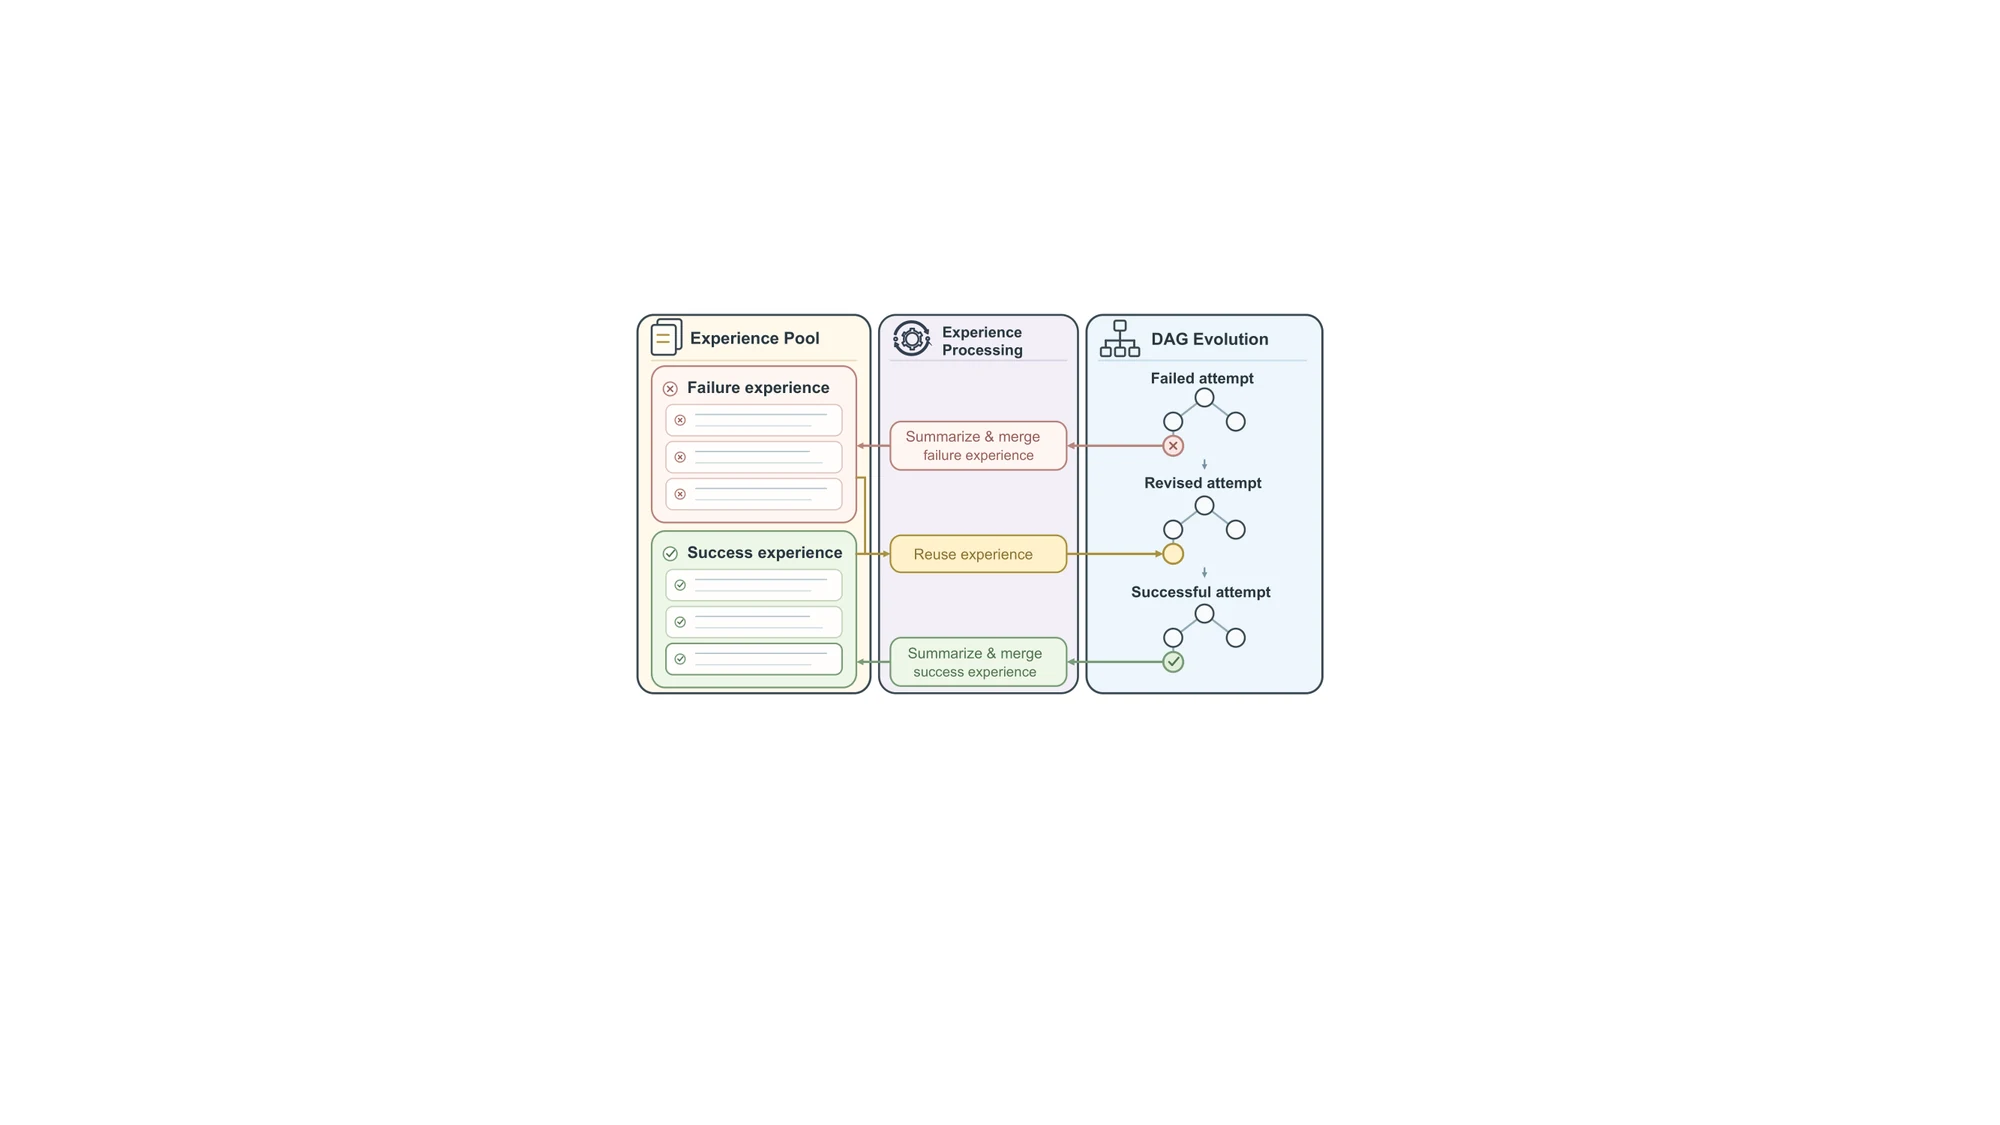
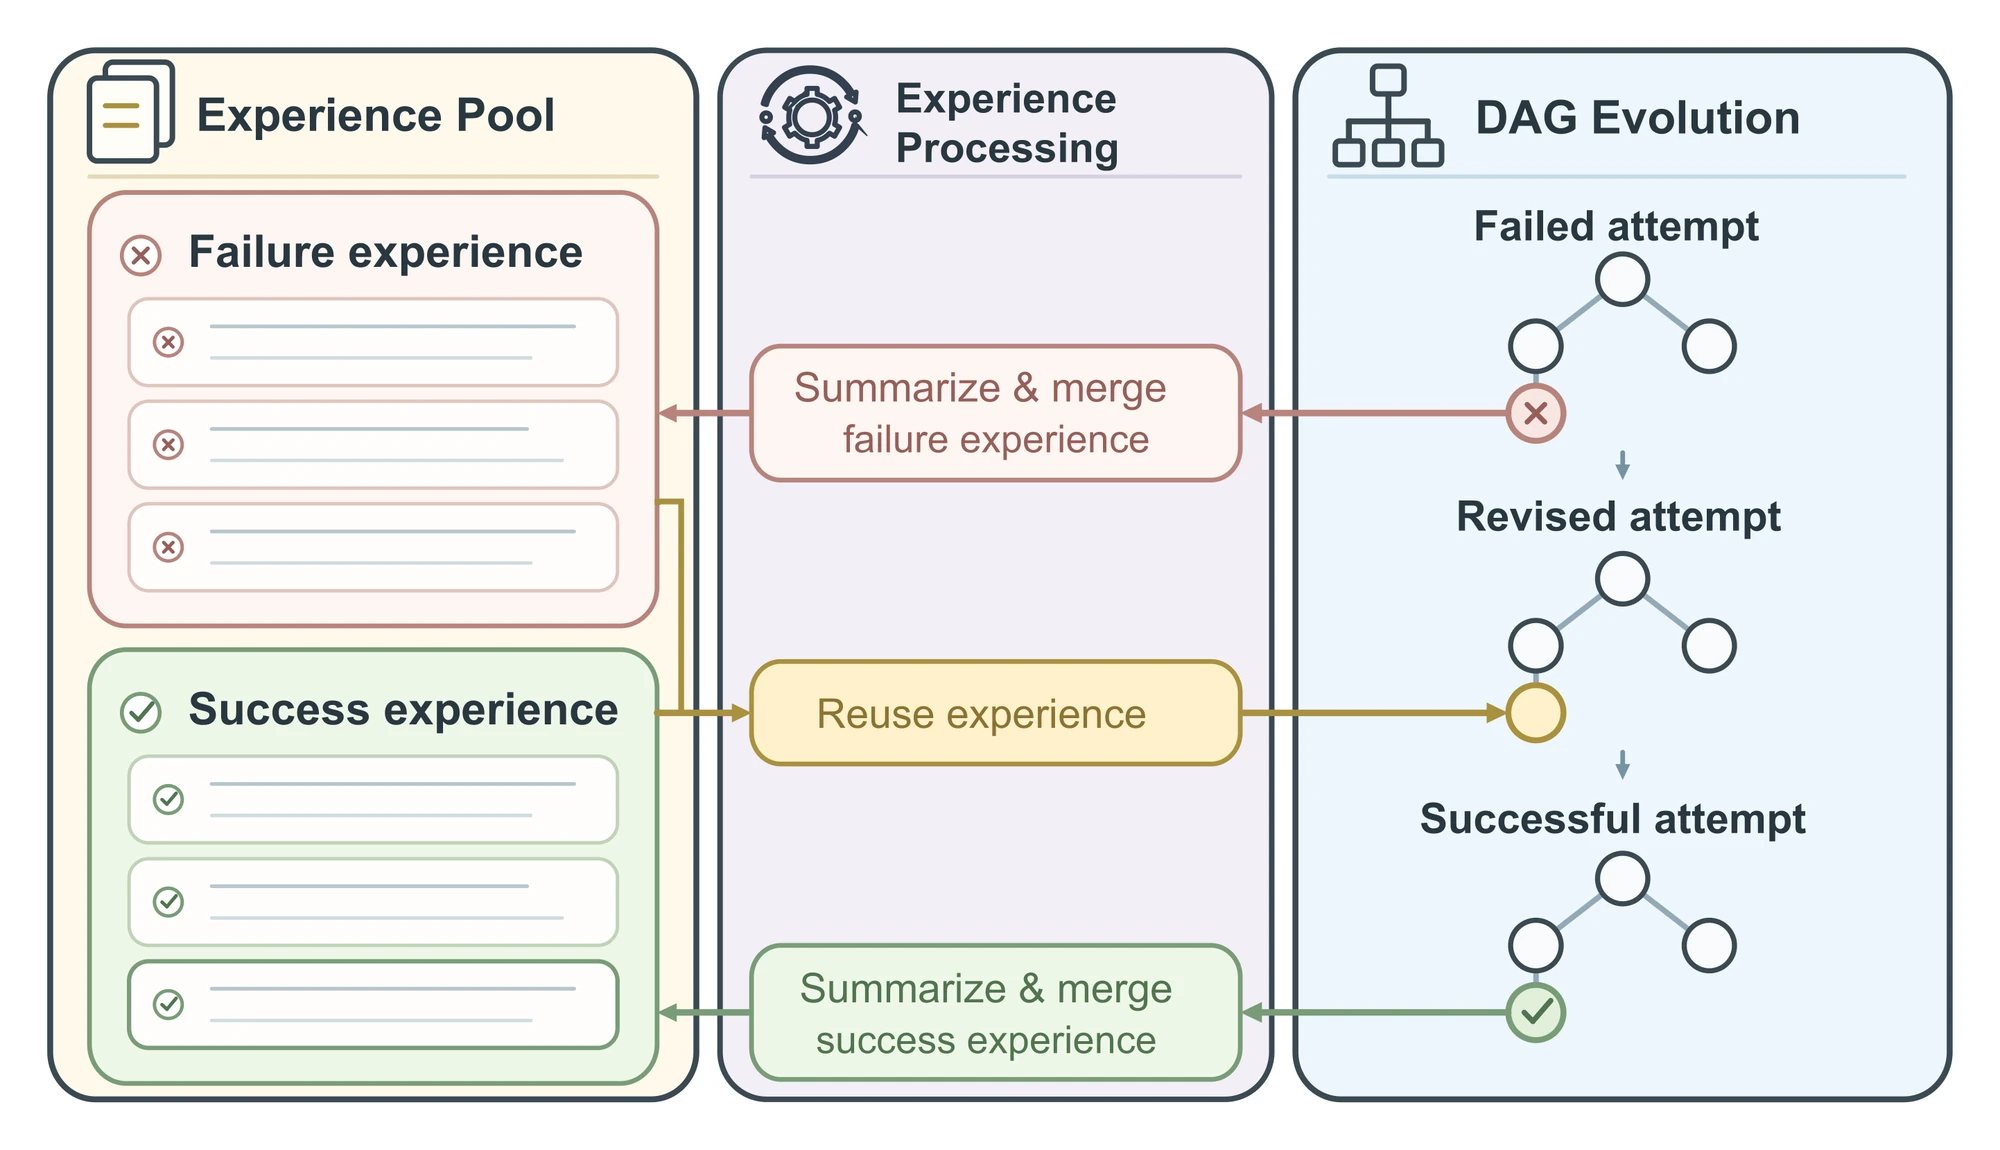
Crop whitespace from semantic-review and experience-pool figures
The source PDFs (DAG.pdf, 301.pdf) have large blank pages around small
drawings, so the figures used ~1/3 of their frames. Re-rendered at
600 dpi and cropped to the drawing. bump_version.py now also stamps
image/video references so replaced images are not served from cache.

Changed region(s): [[0.0, 0.0311, 0.992, 0.9644], [0.837, 0.5289, 0.868, 0.5911], [0.837, 0.28, 0.868, 0.3422]]

diff --git a/harness.html b/harness.html
@@ -5,11 +5,11 @@
   <meta name="viewport" content="width=device-width, initial-scale=1, viewport-fit=cover">
   <title>Harness — Turing Agent</title>
   <meta name="description" content="How Turing Agent works: two-scale theorem/proof formalization agents, proof DAG, selective semantic review, experience pool, and benchmark results.">
-  <link rel="icon" href="assets/img/logo.png">
+  <link rel="icon" href="assets/img/logo.png?v=202611110642">
   <link rel="preconnect" href="https://fonts.googleapis.com">
   <link rel="preconnect" href="https://fonts.gstatic.com" crossorigin>
   <link href="https://fonts.googleapis.com/css2?family=Fira+Code:wght@400;500;600&family=Poppins:wght@400;500;600&family=Source+Serif+4:ital,opsz,wght@0,8..60,400;0,8..60,600;1,8..60,400&display=swap" rel="stylesheet">
-  <link rel="stylesheet" href="assets/css/site.css?v=202611110637">
+  <link rel="stylesheet" href="assets/css/site.css?v=202611110642">
 </head>
 <body>
   <header class="banner" id="banner"></header>
@@ -34,7 +34,7 @@
       <div class="wrap-xl" style="margin-top:1.5rem">
         <div class="box pad-lg">
           <figure class="figure">
-            <div class="mat"><img class="zoomable" loading="lazy" src="assets/img/challenges.webp" alt="Pipeline from natural-language claim to kernel check, annotated with faithfulness, validity and completeness." width="2506" height="1025"></div>
+            <div class="mat"><img class="zoomable" loading="lazy" src="assets/img/challenges.webp?v=202611110642" alt="Pipeline from natural-language claim to kernel check, annotated with faithfulness, validity and completeness." width="2506" height="1025"></div>
           </figure>
           <div class="grid-3" style="margin-top:20px">
             <div class="card tile"><span class="tag">Faithfulness</span><h3>Preserve the original claim</h3><p>The Lean statement must keep the domains, quantifiers, assumptions and conclusion of the natural-language claim. A statement can compile and still say something else.</p></div>
@@ -57,7 +57,7 @@
       <div class="wrap-xl" style="margin-top:1.5rem">
         <div class="box-linear pad-lg">
           <figure class="figure">
-            <div class="mat"><img class="zoomable" loading="lazy" src="assets/img/workflow.webp" alt="Turing Agent workflow: TF subagent, recursive DAG construction, PF subagents, experience pool and final verification." width="2470" height="1406"></div>
+            <div class="mat"><img class="zoomable" loading="lazy" src="assets/img/workflow.webp?v=202611110642" alt="Turing Agent workflow: TF subagent, recursive DAG construction, PF subagents, experience pool and final verification." width="2470" height="1406"></div>
             <figcaption><b>Workflow.</b> TF agents supply checked Lean statements and definitions; PF agents construct proofs and request semantic review when needed. The runtime coordinates recursive DAG construction, parallel proof formalization and selective review; experience from successful and failed attempts is extracted and reused, and checked branch proofs are assembled for final verification.</figcaption>
           </figure>
         </div>
@@ -77,11 +77,11 @@
       <div class="wrap-xl" style="margin-top:2rem">
         <div class="grid-2">
           <figure class="figure box pad">
-            <div class="mat"><img class="zoomable" loading="lazy" src="assets/img/semantic-review.webp" alt="Selective semantic review in the proof DAG." width="2667" height="1500"></div>
+            <div class="mat"><img class="zoomable" loading="lazy" src="assets/img/semantic-review.webp?v=202611110642" alt="Selective semantic review in the proof DAG." width="2000" height="1366"></div>
             <figcaption><b>Selective semantic review.</b> PF agents call a TF agent when a concept is unclear or a new definition is introduced.</figcaption>
           </figure>
           <figure class="figure box pad">
-            <div class="mat"><img class="zoomable" loading="lazy" src="assets/img/experience.webp" alt="Experience extraction and reuse during DAG evolution." width="2667" height="1500"></div>
+            <div class="mat"><img class="zoomable" loading="lazy" src="assets/img/experience.webp?v=202611110642" alt="Experience extraction and reuse during DAG evolution." width="2000" height="1150"></div>
             <figcaption><b>Experience pool.</b> Retained records guide revisions; useful findings from later attempts update the pool.</figcaption>
           </figure>
         </div>
@@ -106,7 +106,7 @@
       <div class="wrap-xl" style="margin-top:1.6rem">
         <div class="box pad-lg">
           <figure class="figure">
-            <div class="mat"><img class="zoomable" loading="lazy" src="assets/img/results.webp" alt="Bar charts of pass@1 results for GLM-5.3 and DeepSeek-V4-Pro." width="2512" height="1267"></div>
+            <div class="mat"><img class="zoomable" loading="lazy" src="assets/img/results.webp?v=202611110642" alt="Bar charts of pass@1 results for GLM-5.3 and DeepSeek-V4-Pro." width="2512" height="1267"></div>
             <figcaption><b>Pass@1 results</b> on Formal TCS Bench (compilation and success) and RLMEval (PFR, TLB, total) for both models.</figcaption>
           </figure>
         </div>
@@ -135,8 +135,8 @@
 
   <footer class="footer" id="footer"></footer>
 
-  <script src="data/site.js?v=202611110637"></script>
-  <script src="data/results.js?v=202611110637"></script>
-  <script src="assets/js/site.js?v=202611110637"></script>
+  <script src="data/site.js?v=202611110642"></script>
+  <script src="data/results.js?v=202611110642"></script>
+  <script src="assets/js/site.js?v=202611110642"></script>
 </body>
 </html>

diff --git a/index.html b/index.html
@@ -5,11 +5,11 @@
   <meta name="viewport" content="width=device-width, initial-scale=1, viewport-fit=cover">
   <title>Turing Agent — Faithful Automated Formal Verification</title>
   <meta name="description" content="Turing Agent: a unified agent harness for faithful, research-level formal verification in Lean. Harness design, OpenAI research problems, demos and workshops.">
-  <link rel="icon" href="assets/img/logo.png">
+  <link rel="icon" href="assets/img/logo.png?v=202611110642">
   <link rel="preconnect" href="https://fonts.googleapis.com">
   <link rel="preconnect" href="https://fonts.gstatic.com" crossorigin>
   <link href="https://fonts.googleapis.com/css2?family=Fira+Code:wght@400;500;600&family=Poppins:wght@400;500;600&family=Source+Serif+4:ital,opsz,wght@0,8..60,400;0,8..60,600;1,8..60,400&display=swap" rel="stylesheet">
-  <link rel="stylesheet" href="assets/css/site.css?v=202611110637">
+  <link rel="stylesheet" href="assets/css/site.css?v=202611110642">
 </head>
 <body>
   <header class="banner" id="banner"></header>
@@ -17,7 +17,7 @@
   <main>
     <!-- ============ HERO ============ -->
     <section class="hero wrap-large">
-      <img class="hero-logo" src="assets/img/logo.png" alt="Turing Agent logo" width="64" height="71">
+      <img class="hero-logo" src="assets/img/logo.png?v=202611110642" alt="Turing Agent logo" width="64" height="71">
       <h1>Turing Agent<span>Faithful Automated Formal Verification in Theoretical Computer Science</span></h1>
       <div class="affil">Shanghai Artificial Intelligence Laboratory</div>
       <p class="lede">
@@ -54,7 +54,7 @@
                 <!-- To swap the video: new .mp4 in assets/video/, poster in assets/img/, edit src/poster/caption. -->
                 <figure class="figure">
                   <div class="mat video-mat">
-                    <video class="showcase" src="assets/video/186dag.mp4" poster="assets/img/186dag-poster.webp"
+                    <video class="showcase" src="assets/video/186dag.mp4?v=202611110642" poster="assets/img/186dag-poster.webp"
                            width="1920" height="1080" autoplay muted loop playsinline controls preload="auto"
                            aria-label="Animation: Turing Agent builds and verifies the proof DAG for the uniform influence bound for hypergraph properties."></video>
                   </div>
@@ -124,7 +124,7 @@
       </div>
       <div class="box pad-lg" style="margin-top:16px">
         <figure class="figure">
-          <div class="mat"><img class="zoomable" loading="lazy" src="assets/img/results.webp" alt="Bar charts of pass@1 on Formal TCS Bench (compilation and success) and RLMEval (PFR, TLB, total) for LLM only, Codex, Claude Code and Turing Agent, with GLM-5.3 and DeepSeek-V4-Pro." width="2000" height="1009"></div>
+          <div class="mat"><img class="zoomable" loading="lazy" src="assets/img/results.webp?v=202611110642" alt="Bar charts of pass@1 on Formal TCS Bench (compilation and success) and RLMEval (PFR, TLB, total) for LLM only, Codex, Claude Code and Turing Agent, with GLM-5.3 and DeepSeek-V4-Pro." width="2000" height="1009"></div>
           <figcaption><b>Pass@1 (%)</b> with GLM-5.3 (top) and DeepSeek-V4-Pro (bottom): the same model run as direct generation, inside Codex CLI, inside Claude Code, and inside Turing Agent. Formal TCS Bench success requires the statement to compile <em>and</em> pass independent semantic review. Click to enlarge.</figcaption>
         </figure>
       </div>
@@ -178,11 +178,11 @@
 
   <footer class="footer" id="footer"></footer>
 
-  <script src="data/site.js?v=202611110637"></script>
-  <script src="data/openai.js?v=202611110637"></script>
-  <script src="data/demos.js?v=202611110637"></script>
-  <script src="data/traces/index.js?v=202611110637"></script>
-  <script src="data/workshops.js?v=202611110637"></script>
-  <script src="assets/js/site.js?v=202611110637"></script>
+  <script src="data/site.js?v=202611110642"></script>
+  <script src="data/openai.js?v=202611110642"></script>
+  <script src="data/demos.js?v=202611110642"></script>
+  <script src="data/traces/index.js?v=202611110642"></script>
+  <script src="data/workshops.js?v=202611110642"></script>
+  <script src="assets/js/site.js?v=202611110642"></script>
 </body>
 </html>

diff --git a/openai.html b/openai.html
@@ -5,12 +5,12 @@
   <meta name="viewport" content="width=device-width, initial-scale=1, viewport-fit=cover">
   <title>OpenAI Problems — Turing Agent</title>
   <meta name="description" content="Research-level TCS problems from OpenAI's 722-manuscript collection, formally verified in Lean by Turing Agent.">
-  <link rel="icon" href="assets/img/logo.png">
+  <link rel="icon" href="assets/img/logo.png?v=202611110642">
   <link rel="preconnect" href="https://fonts.googleapis.com">
   <link rel="preconnect" href="https://fonts.gstatic.com" crossorigin>
   <link href="https://fonts.googleapis.com/css2?family=Fira+Code:wght@400;500;600&family=Poppins:wght@400;500;600&family=Source+Serif+4:ital,opsz,wght@0,8..60,400;0,8..60,600;1,8..60,400&display=swap" rel="stylesheet">
   <link rel="stylesheet" href="https://cdn.jsdelivr.net/npm/katex@0.16.11/dist/katex.min.css">
-  <link rel="stylesheet" href="assets/css/site.css?v=202611110637">
+  <link rel="stylesheet" href="assets/css/site.css?v=202611110642">
 </head>
 <body>
   <header class="banner" id="banner"></header>
@@ -33,7 +33,7 @@
     <section class="wrap-xl">
       <div class="box-linear pad-lg">
         <figure class="figure">
-          <div class="mat"><img class="zoomable" loading="lazy" src="assets/img/openai4.webp" alt="Funnel from 722 problems to 4 problems verified by Turing Agent, with a summary of each." width="2489" height="1270"></div>
+          <div class="mat"><img class="zoomable" loading="lazy" src="assets/img/openai4.webp?v=202611110642" alt="Funnel from 722 problems to 4 problems verified by Turing Agent, with a summary of each." width="2489" height="1270"></div>
           <figcaption><b>Task selection.</b> 121 of the 722 problems are TCS-related; 22 of those had not been fully verified in Lean. Finishing them takes more than local proof repair: missing arguments are reconstructed, new auxiliary lemmas introduced and verified, and long dependency chains coordinated — up to more than a hundred verified auxiliary claims.</figcaption>
         </figure>
       </div>
@@ -52,9 +52,9 @@
 
   <script src="https://cdn.jsdelivr.net/npm/katex@0.16.11/dist/katex.min.js"></script>
   <script src="https://cdn.jsdelivr.net/npm/katex@0.16.11/dist/contrib/auto-render.min.js"></script>
-  <script src="data/site.js?v=202611110637"></script>
-  <script src="data/openai.js?v=202611110637"></script>
-  <script src="data/traces/index.js?v=202611110637"></script>
-  <script src="assets/js/site.js?v=202611110637"></script>
+  <script src="data/site.js?v=202611110642"></script>
+  <script src="data/openai.js?v=202611110642"></script>
+  <script src="data/traces/index.js?v=202611110642"></script>
+  <script src="assets/js/site.js?v=202611110642"></script>
 </body>
 </html>

diff --git a/demos.html b/demos.html
@@ -5,12 +5,12 @@
   <meta name="viewport" content="width=device-width, initial-scale=1, viewport-fit=cover">
   <title>Demos — Turing Agent</title>
   <meta name="description" content="Replay how Turing Agent built and verified real proofs: the proof DAG, Lean probes, failed attempts, context compactions and saved lessons.">
-  <link rel="icon" href="assets/img/logo.png">
+  <link rel="icon" href="assets/img/logo.png?v=202611110642">
   <link rel="preconnect" href="https://fonts.googleapis.com">
   <link rel="preconnect" href="https://fonts.gstatic.com" crossorigin>
   <link href="https://fonts.googleapis.com/css2?family=Fira+Code:wght@400;500;600&family=Poppins:wght@400;500;600&family=Source+Serif+4:ital,opsz,wght@0,8..60,400;0,8..60,600;1,8..60,400&display=swap" rel="stylesheet">
   <link rel="stylesheet" href="https://cdn.jsdelivr.net/npm/katex@0.16.11/dist/katex.min.css">
-  <link rel="stylesheet" href="assets/css/site.css?v=202611110637">
+  <link rel="stylesheet" href="assets/css/site.css?v=202611110642">
 </head>
 <body>
   <header class="banner" id="banner"></header>
@@ -44,10 +44,10 @@
 
   <script src="https://cdn.jsdelivr.net/npm/katex@0.16.11/dist/katex.min.js"></script>
   <script src="https://cdn.jsdelivr.net/npm/katex@0.16.11/dist/contrib/auto-render.min.js"></script>
-  <script src="data/site.js?v=202611110637"></script>
-  <script src="data/demos.js?v=202611110637"></script>
-  <script src="data/traces/index.js?v=202611110637"></script>
-  <script src="assets/js/site.js?v=202611110637"></script>
-  <script src="assets/js/traces.js?v=202611110637"></script>
+  <script src="data/site.js?v=202611110642"></script>
+  <script src="data/demos.js?v=202611110642"></script>
+  <script src="data/traces/index.js?v=202611110642"></script>
+  <script src="assets/js/site.js?v=202611110642"></script>
+  <script src="assets/js/traces.js?v=202611110642"></script>
 </body>
 </html>

diff --git a/page-template.html b/page-template.html
@@ -13,11 +13,11 @@
   <meta charset="UTF-8">
   <meta name="viewport" content="width=device-width, initial-scale=1, viewport-fit=cover">
   <title>New page — Turing Agent</title>
-  <link rel="icon" href="assets/img/logo.png">
+  <link rel="icon" href="assets/img/logo.png?v=202611110642">
   <link rel="preconnect" href="https://fonts.googleapis.com">
   <link rel="preconnect" href="https://fonts.gstatic.com" crossorigin>
   <link href="https://fonts.googleapis.com/css2?family=Fira+Code:wght@400;500;600&family=Poppins:wght@400;500;600&family=Source+Serif+4:ital,opsz,wght@0,8..60,400;0,8..60,600;1,8..60,400&display=swap" rel="stylesheet">
-  <link rel="stylesheet" href="assets/css/site.css?v=202611110637">
+  <link rel="stylesheet" href="assets/css/site.css?v=202611110642">
 </head>
 <body>
   <header class="banner" id="banner"></header>
@@ -37,7 +37,7 @@
     <section class="section wrap-xl">
       <div class="box pad-lg">
         <figure class="figure">
-          <div class="mat"><img class="zoomable" src="assets/img/workflow.webp" alt="Describe the figure"></div>
+          <div class="mat"><img class="zoomable" src="assets/img/workflow.webp?v=202611110642" alt="Describe the figure"></div>
           <figcaption><b>Figure.</b> Caption text.</figcaption>
         </figure>
       </div>
@@ -46,7 +46,7 @@
 
   <footer class="footer" id="footer"></footer>
 
-  <script src="data/site.js?v=202611110637"></script>
-  <script src="assets/js/site.js?v=202611110637"></script>
+  <script src="data/site.js?v=202611110642"></script>
+  <script src="assets/js/site.js?v=202611110642"></script>
 </body>
 </html>

diff --git a/workshops.html b/workshops.html
@@ -5,11 +5,11 @@
   <meta name="viewport" content="width=device-width, initial-scale=1, viewport-fit=cover">
   <title>Workshops — Turing Agent</title>
   <meta name="description" content="Internal Turing Agent workshop series: schedule, slides, recordings and code.">
-  <link rel="icon" href="assets/img/logo.png">
+  <link rel="icon" href="assets/img/logo.png?v=202611110642">
   <link rel="preconnect" href="https://fonts.googleapis.com">
   <link rel="preconnect" href="https://fonts.gstatic.com" crossorigin>
   <link href="https://fonts.googleapis.com/css2?family=Fira+Code:wght@400;500;600&family=Poppins:wght@400;500;600&family=Source+Serif+4:ital,opsz,wght@0,8..60,400;0,8..60,600;1,8..60,400&display=swap" rel="stylesheet">
-  <link rel="stylesheet" href="assets/css/site.css?v=202611110637">
+  <link rel="stylesheet" href="assets/css/site.css?v=202611110642">
 </head>
 <body>
   <header class="banner" id="banner"></header>
@@ -34,8 +34,8 @@
 
   <footer class="footer" id="footer"></footer>
 
-  <script src="data/site.js?v=202611110637"></script>
-  <script src="data/workshops.js?v=202611110637"></script>
-  <script src="assets/js/site.js?v=202611110637"></script>
+  <script src="data/site.js?v=202611110642"></script>
+  <script src="data/workshops.js?v=202611110642"></script>
+  <script src="assets/js/site.js?v=202611110642"></script>
 </body>
 </html>

diff --git a/data/site.js b/data/site.js
@@ -6,7 +6,7 @@
 window.TA = window.TA || {};
 
 TA.site = {
-  version: "202611110637",   // set by tools/bump_version.py
+  version: "202611110642",   // set by tools/bump_version.py
   name: "Turing Agent",
   tagline: "Formal Verification Portal",
   affiliation: "Shanghai Artificial Intelligence Laboratory",

diff --git a/tools/bump_version.py b/tools/bump_version.py
@@ -1,6 +1,6 @@
 #!/usr/bin/env python3
 """
-Stamp a fresh version onto every local CSS/JS reference so browsers fetch the
+Stamp a fresh version onto every local CSS/JS/image/video reference so browsers fetch the
 new files right after a deploy instead of showing a cached copy.
 
     python3 tools/bump_version.py
@@ -18,7 +18,7 @@ from datetime import datetime, timezone
 
 ROOT = os.path.join(os.path.dirname(os.path.abspath(__file__)), "..")
 stamp = datetime.now(timezone.utc).strftime("%Y%m%d%H%M")
-ref = re.compile(r'((?:href|src)=")((?:assets|data)/[^"?]+\.(?:css|js))(?:\?v=[^"]*)?(")')
+ref = re.compile(r'((?:href|src)=")((?:assets|data)/[^"?]+\.(?:css|js|webp|png|jpg|svg|mp4))(?:\?v=[^"]*)?(")')
 
 changed = 0
 for path in sorted(glob.glob(os.path.join(ROOT, "*.html"))):
